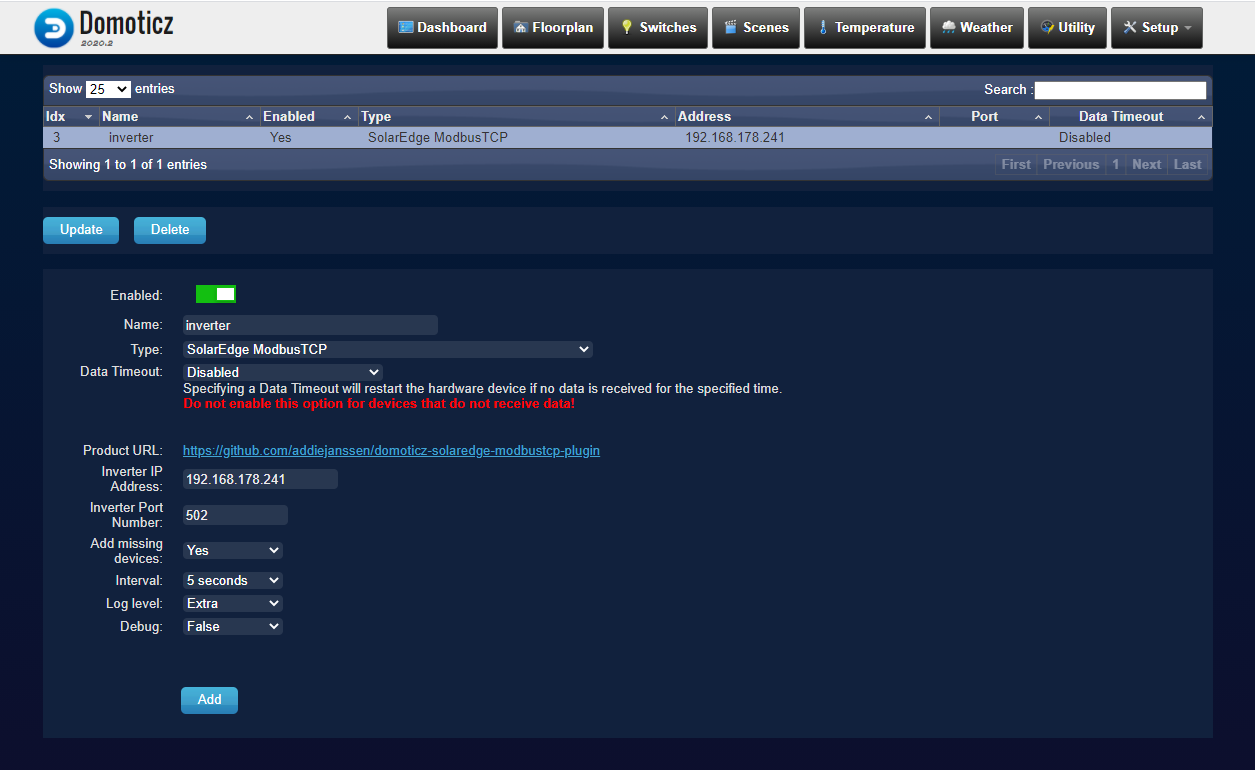
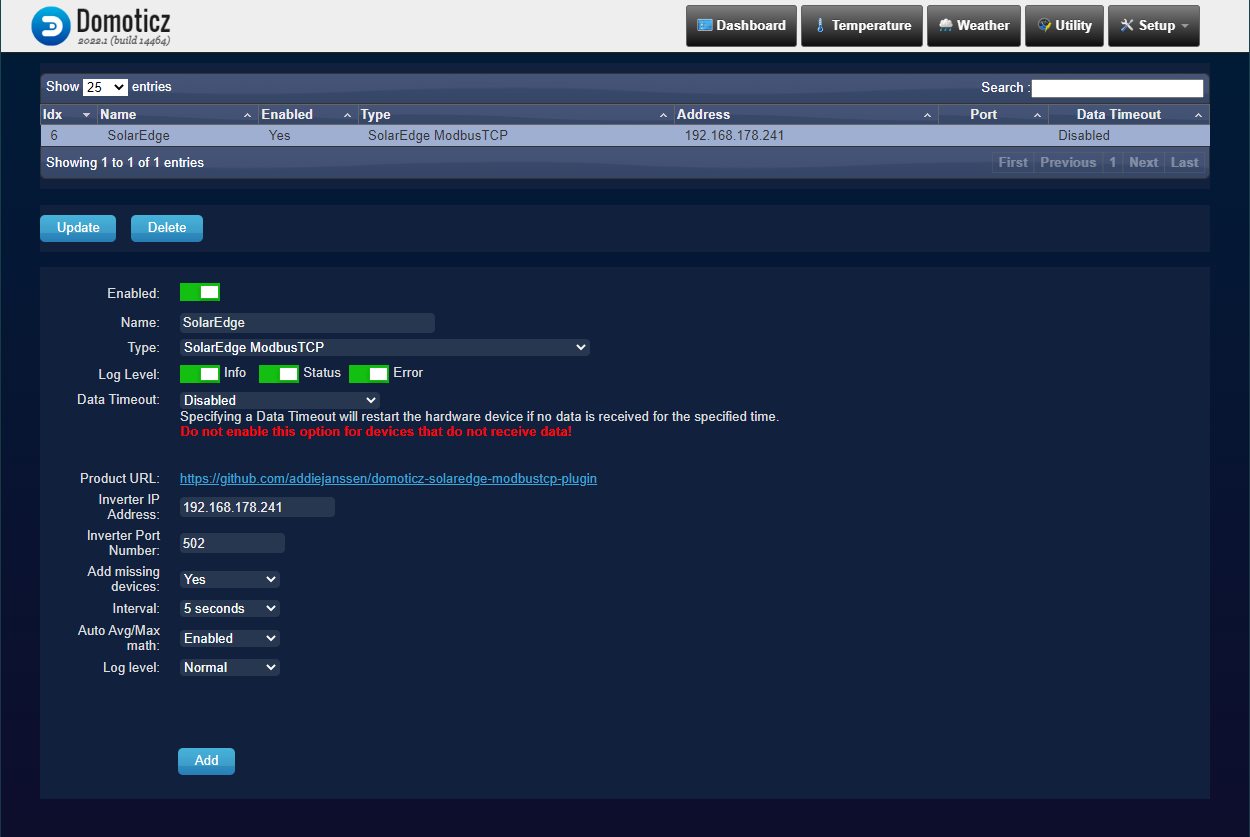
Updated the documentation

Changed region(s): [[0.0, 0.0, 1.0, 1.0], [0.0624, 0.561, 0.4992, 0.8416], [0.156, 0.9039, 0.1872, 0.9351]]

diff --git a/README.md b/README.md
@@ -10,7 +10,7 @@ The inverter needs to be connected to the network (either wired or wireless) and
 
 ## Installation of the plugin
 
-This guide is based on Ubuntu 20.04 LTS:
+### Domoticz running on Ubuntu 20.04 LTS
 
 Install `pip3`:
 
@@ -46,6 +46,43 @@ Once that is done, restart domoticz:
 sudo service domoticz.sh restart
 ```
 
+### Domoticz running inside Docker
+
+Please have a look at the Domoticz documentation before going this route: https://www.domoticz.com/wiki/Docker
+
+This guide is based on the information of the original Domoticz Docker image, which can be found here: https://hub.docker.com/r/domoticz/domoticz
+
+The installation documentation states:
+> When launching the docker container for the first time, a plugin folder is created in the userdata folder. You need to place your python plugins is folder.
+
+You will need to start Domoticz once to create the data in that userdata folder.
+Once the folder is initialize, we can add the plugin.
+
+Install the plugin:
+
+``` shell
+cd <path for config files>/plugins
+git clone https://github.com/addiejanssen/domoticz-solaredge-modbustcp-plugin.git
+```
+
+There are multiple ways to install the modules that are required by this plugin.
+This is the _easy going_ option, but it may not be the best solution for the long run:
+
+Connect to the running container
+
+``` shell
+docker exec -it domoticz
+```
+
+Go to the plugin folder and install all required addons:
+
+``` shell
+cd userdata/plugins/domoticz-solaredge-modbustcp-plugin
+pip3 install -r requirements.txt -t .
+```
+
+Once that is done, restart the domoticz container.
+
 ## Configuration in Domoticz
 
 Once the plugin is installed, a new hardware type will be available: `SolarEdge ModbusTCP`.
@@ -58,15 +95,15 @@ To add the inverter, go to `Setup` -> `Hardware` and add the inverter:
 - Enter the port number (default: 502) of the inverter in the `Inverter Port Number` field.
 - Select `Yes` in the `Add missing devices` to create the devices when the inverter is added. Select `No` after deleting unwanted devices. Leaving the option set to `Yes` will recreate the deleted devices once Domoticz is restarted.
 - Select an `Interval` (default: 5 seconds); this defines how often the plugin will collect the data from the inverter. Short intervals will result in more accurate values and graphs, but also result in more network traffic and a higher workload for both Domoticz and the inverter.
-- Optionally change the `Log level`; this defaults to `Normal`. When selecting `Extra`, the plugin will print all the information it received from the inverter in the log.
-- Optionally turn on `Debug`; be aware: this will generate a lot of entries in the Domoticz log!
+- Optionally change the `Auto Avg/Max math`; this defaults to `Enabled` which means that the Domoticz graphs for most values will be averaged over time. When selecting `Disabled`, the calculations will be disabled and the Domoticz graphs will be based on the last retrieved value.
+- Optionally change the `Log level`; this defaults to `Normal`. When selecting `Extra`, the plugin will print all the information it received from the inverter in the log. When selecting `Debug`, even more information will be logged.
 - `Add` the inverter.
 
 This should result in a lot of new devices in the `Setup` -> `Devices` menu.
 
 ## Updating the plugin
 
-Go to the plugin folder and get the new verion:
+Go to the plugin folder and get the new version:
 
 ``` shell
 cd domoticz/plugins/domoticz-solaredge-modbustcp-plugin
@@ -119,7 +156,7 @@ Hardware page showing a configured inverter.
 
 ![](screenshots/Hardware.png)
 
-The devices page shows all Domotics devices that were created for the inverter.
+The devices page shows all Domoticz devices that were created for the inverter.
 
 ![](screenshots/Devices.png)
 
